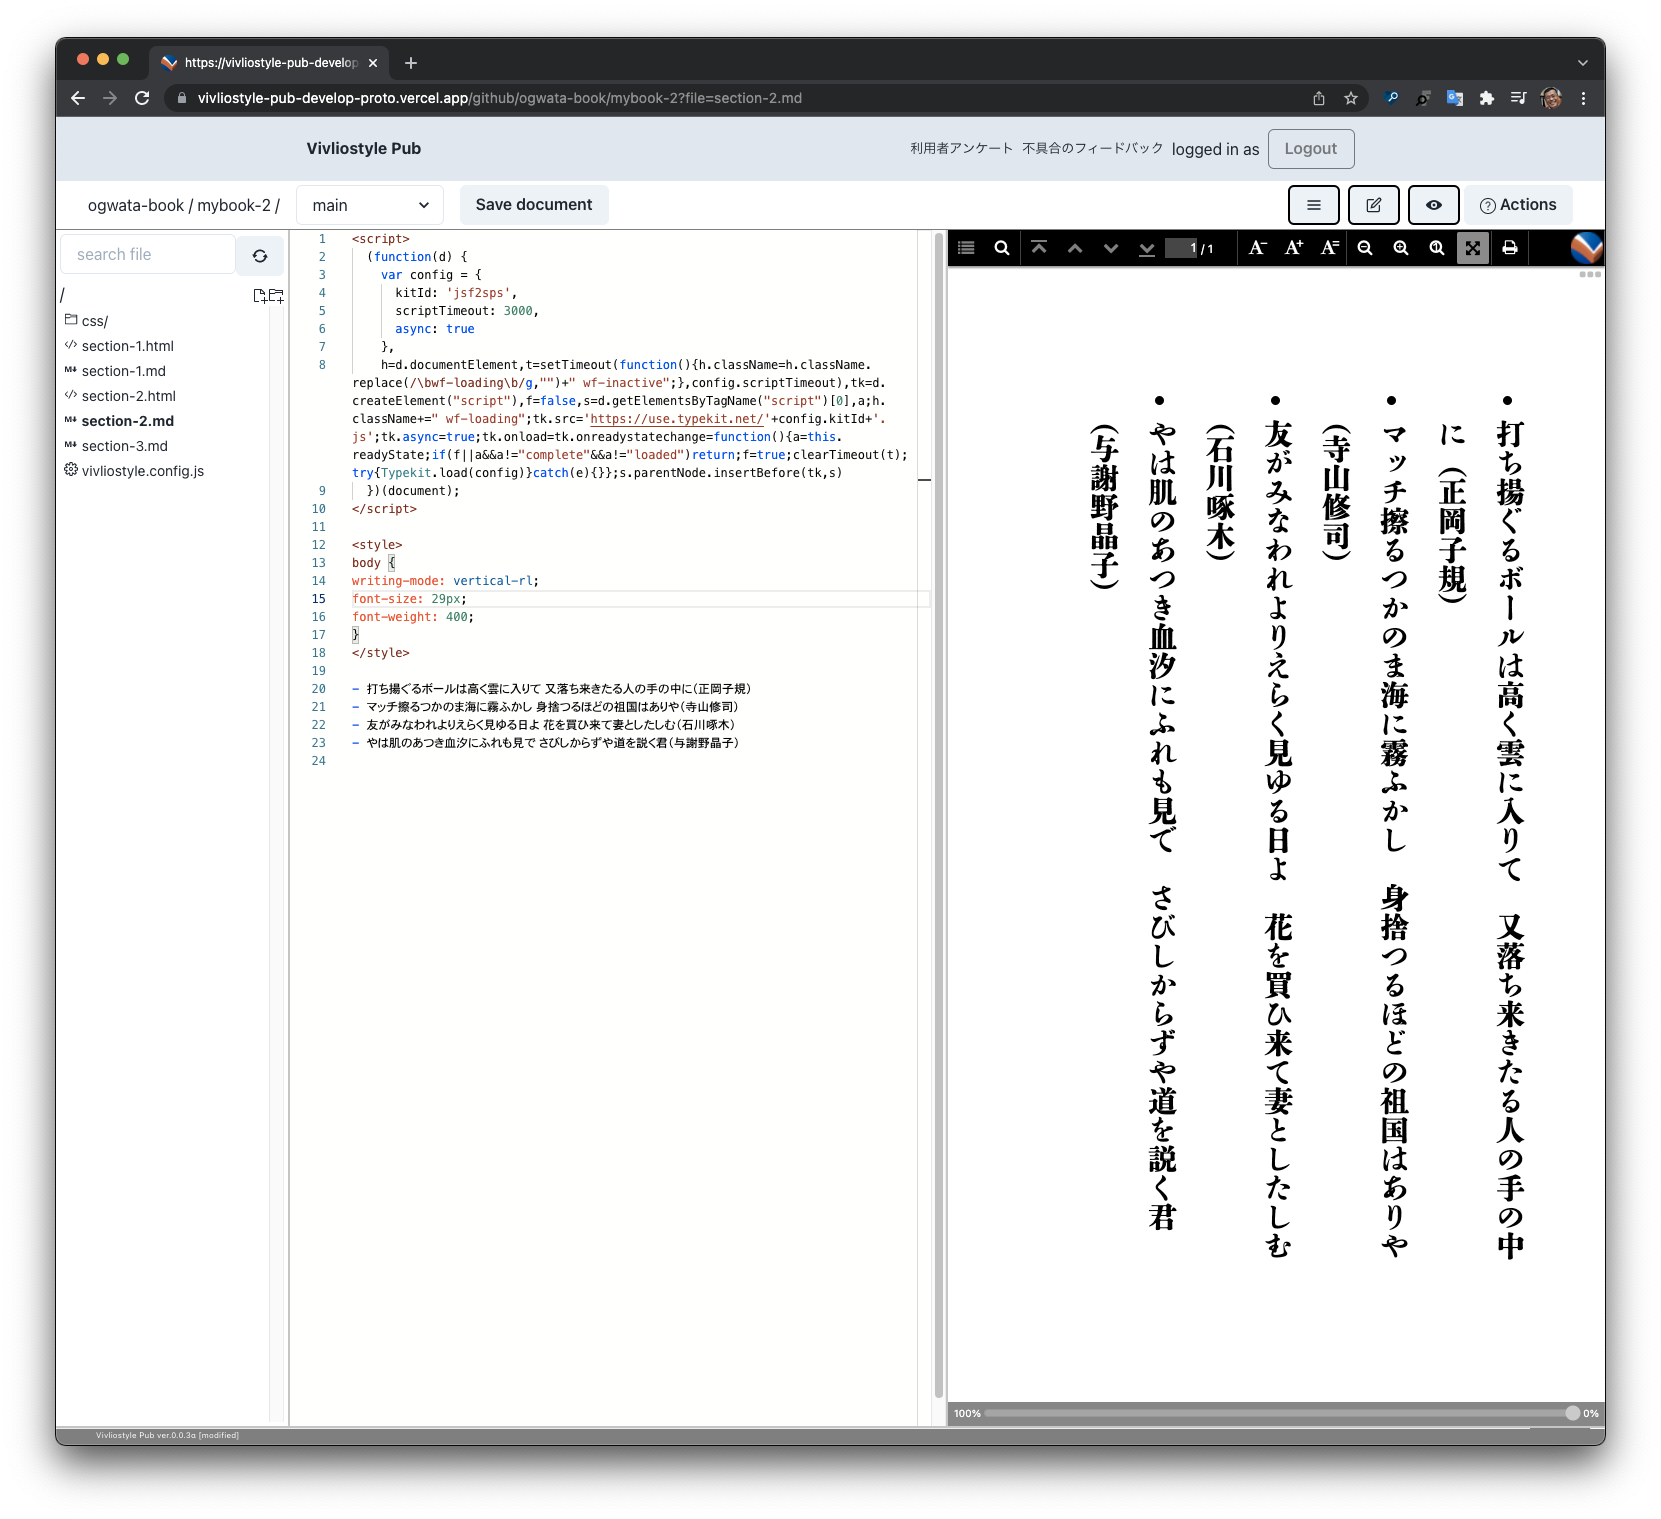
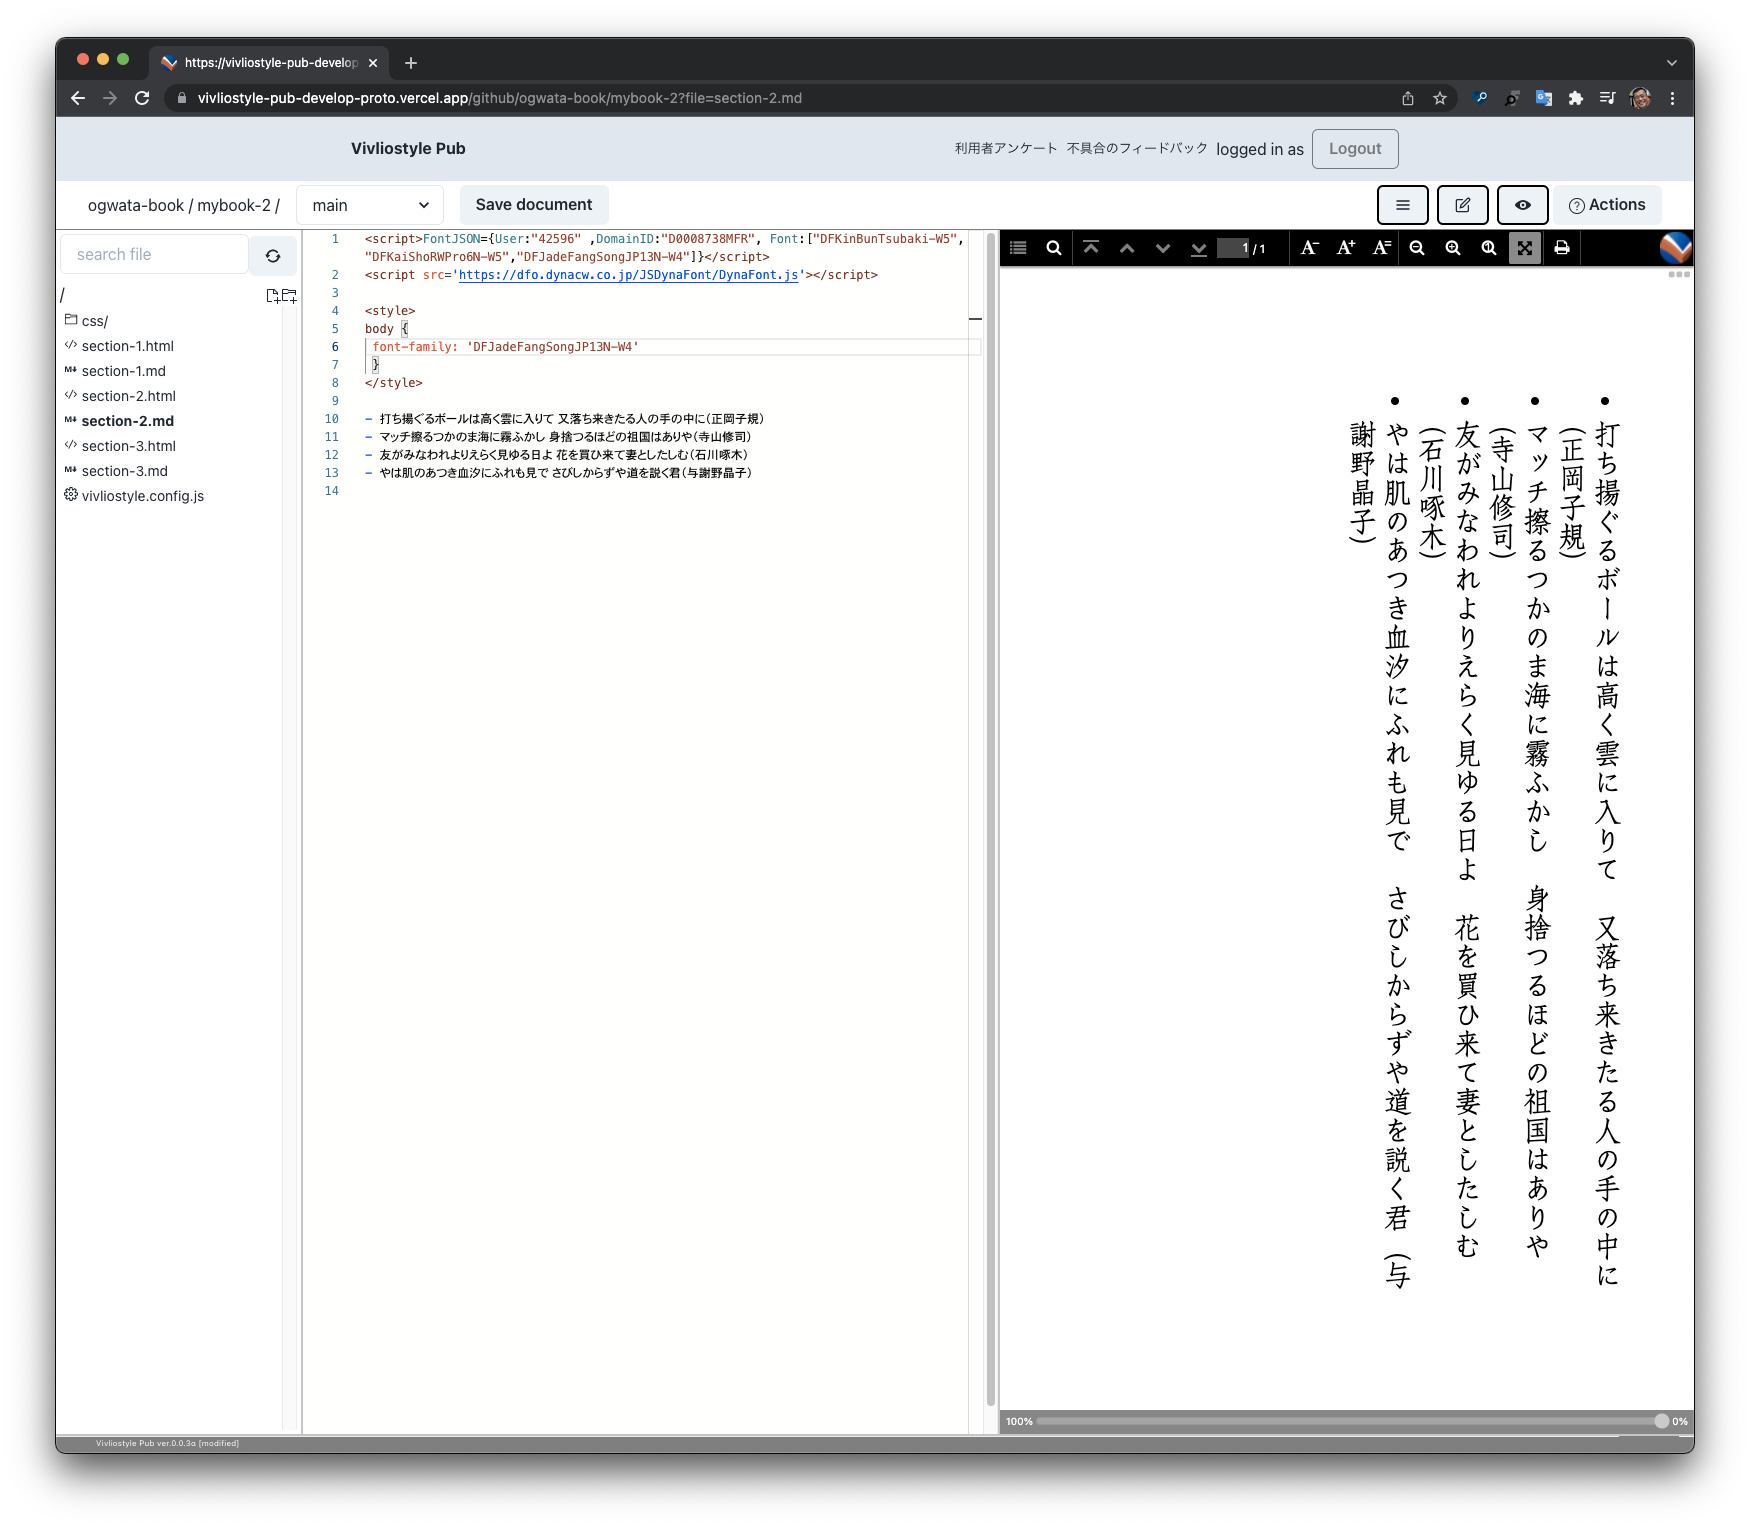
原稿と画像

diff --git a/_posts/ja/2022-01-24-JavaScript-can-now-be-used-in-typesetting-by-Vivliostyle.md b/_posts/ja/2022-01-24-JavaScript-can-now-be-used-in-typesetting-by-Vivliostyle.md
@@ -6,6 +6,76 @@ author:  ogwata
 tags:
   - リリース
 ---
-<div style="float: right; margin: 0 0 1em 1em;"><img src="/assets/posts/2022-01-24-JavaScript-can-now-be-used-in-typesetting-by-Vivliostyle/fig-1.png" alt="JavaScript can now be used in typesetting by Vivliostyle" style="width: 400px; box-shadow: 1px 2px 2.5px 1.5px grey;" /></div>
+<div style="float: right; margin: 0 0 1em 1em;"><img src="/assets/posts/2022-01-24-JavaScript-can-now-be-used-in-typesetting-by-Vivliostyle/fig-1.png" alt="JavaScript can now be used in typesetting by Vivliostyle" style="width: 620px;" /><figcaption>現在開発中のVivliostyle Pubで、DynaFont “DF玉刻華宋 StdN W4” を表示</figcaption></div>
 
-テスト
+## はじめに
+
+2022年1月17日にVivliostyle.jsが v2.13.0 に、同じく18日に Vivliostyle CLI が v4.6.0 にアップデートしました。改訂の詳細は下記をご覧ください。
+
+- [vivliostyle /vivliostyle.js /CHANGELOG.md](https://github.com/vivliostyle/vivliostyle.js/blob/master/CHANGELOG.md)
+- [vivliostyle /vivliostyle.js /CHANGELOG.md](https://github.com/vivliostyle/vivliostyle-cli/blob/main/CHANGELOG.md)
+
+今回のアップデートの目玉は、CSS組版にJavaScriptが使えるようになったことです。従来のバージョンは、HTMLにJavaScriptのコードが含まれていた場合、内部的に削除していました。しかし、JavaScriptが使えないままでは用途を狭めてしまいます。そこでこれを利用できるようにしたのが、今回のアップデートです。
+
+## WebフォントにおけるJavaScript 対応のメリット
+
+その最大のメリットは、JavaScriptで利用するタイプのWebフォントサービスが利用可能になったことでしょう。一般にWebフォントをロードする方法は、以下の3種類です（カッコ内は該当するサービス名）。
+
+1. `@font-face` で自分のサーバ上にあるフォントをロードする方法
+2. `@import`か`link`要素で外部スタイルシート経由でロードする方法（DynaFont、Google Fonts）
+3. JavaScriptによりロードする方法（DynaFont、Adobe Fonts、TypeSquare、FONT PLUS等）
+
+Webフォントを使う上でネックになるのは、フォントをロードする速度がどうしてもネットワークの速度に依存する点です。とくに文字セットが大規模になってしまう日本語や中国語の場合、問題がより顕著になります。しかし、上記のうち3の方法であれば、JavaScriptを使って対象となるHTMLを読み込み、必要な文字だけ抽出したサブセットを作成することで、ロードの速度を早めることができます（ダイナミックサブセット）。
+
+つまり、日本語や中国語でWebフォントを使う場合、上記3の方法は大変有効になり得ます。ところがVivliostyleは、今までこれに対応できていませんでした。
+
+## JavaScriptによるWebフォントをVivliostyleで使うには
+
+各社のWebフォントサービスを、実際にVivliostyle Viewerで使ってみたテストサンプルを下記で公開しています。
+
+- [各社Webフォントサービスのテストサンプル](https://github.com/vivliostyle/vivliostyle.js/issues/735#issuecomment-1006275491)
+
+ところでWebフォントサービスの中には、ドメイン登録を利用条件にしているものがあります。しかし従来、Vivliostyle CLIはfileプロトコルによりHTMLドキュメントをロードしてきました。fileプロトコルではドメイン登録はできません。そこで今回のアップデートで、新しく httpプロトコルでロードするオプションを追加しました。具体的には以下のようにして利用できます。
+
+1. あらかじめWebフォントサービスに、ドメインとして `http://localhost:13000`を登録（各社の差異は後述）
+2. 実行時にオプションとして `--http` を指定
+3. 実行時にURLとして`https://vivliostyle.org/` を指定
+
+より詳しい情報は、下記を参照してください。
+
+- [ Feat/http hosting #234 ](https://github.com/vivliostyle/vivliostyle-cli/pull/234)
+
+ただし実際のドメイン登録にあたっては、Webフォントサービスによって細かな違いがあります。参考まで以下にまとめてみました。
+
+### FONTPLUS
+
+`https://`なども含める「サイトURL」を登録します。Vivliostyle CLI で `--http` オプションをつけて利用するには、`http://localhost:13000/`を登録します。
+
+### TypeSquare
+
+`https://` などを含めない「ドメイン名」を登録します。Vivliostyle CLI で `--http` オプションをつけて利用するには、`localhost`を登録します。
+
+### DynaFont
+
+ドメイン登録を利用条件にしていますが、localhost はドメイン登録なしで使えます。以下の同社FAQを参考にしてください：
+
+- [Q：ローカル環境でWebフォントを使うことはできますか？<i class="fas fa-external-link-alt"></i>](https://www.dynacw.co.jp/support/support_faq_detail.aspx?qid=456&fcid=223)
+
+> Answer：ローカル環境での開発のご要望に応えて、DynaFont Onlineではローカルサーバー上でWebフォントを表示することができます。ご自身のPCにローカルサーバーを構築いただき、localhostフォルダに該当のHTMLファイル及びCSSファイルを置くことで、ブラウザから `https://localhost/` にアクセスいただくと、Webフォントをご確認いただくことができます
+
+## その他のJavaScript対応のメリット
+
+JavaScriptに対応するメリットは、Webフォントに留まりません。現在広く流通している各種JavaScriptライブラリ、たとえば以下のようなライブラリを、Vivliostyleで利用できるようになりました。
+
+- [楽譜を作成する “VexTab”<i class="fas fa-external-link-alt"></i>](http://vexflow.com/vextab/tutorial.html)
+    - [Vivliostyle Viewerでのテスト](https://vivliostyle.vercel.app/#src=https://raw.githack.com/0xfe/vextab/master/doc/tutorial.html)
+- [図表を作成する “Charts.css”<i class="fas fa-external-link-alt"></i>](https://chartscss.org)
+    - [Vivliostyle Viewerでのテスト](https://vivliostyle.vercel.app/#src=https://raw.githack.com/zopyx/print-css-rocks/master/lessons/lesson-chart-js/index.html)
+
+## おわりに
+
+以上、今回のアップデートにおけるJavaScript対応について簡単にまとめました。より詳細な情報は、以下のIssueをご参照ください。
+
+- [Allow JavaScript in HTML documents #733](https://github.com/vivliostyle/vivliostyle.js/issues/733)
+- [Support Web fonts loaded via JavaScript #735](https://github.com/vivliostyle/vivliostyle.js/issues/735)
+- [Layout problem with Web fonts #829](https://github.com/vivliostyle/vivliostyle.js/issues/829)
